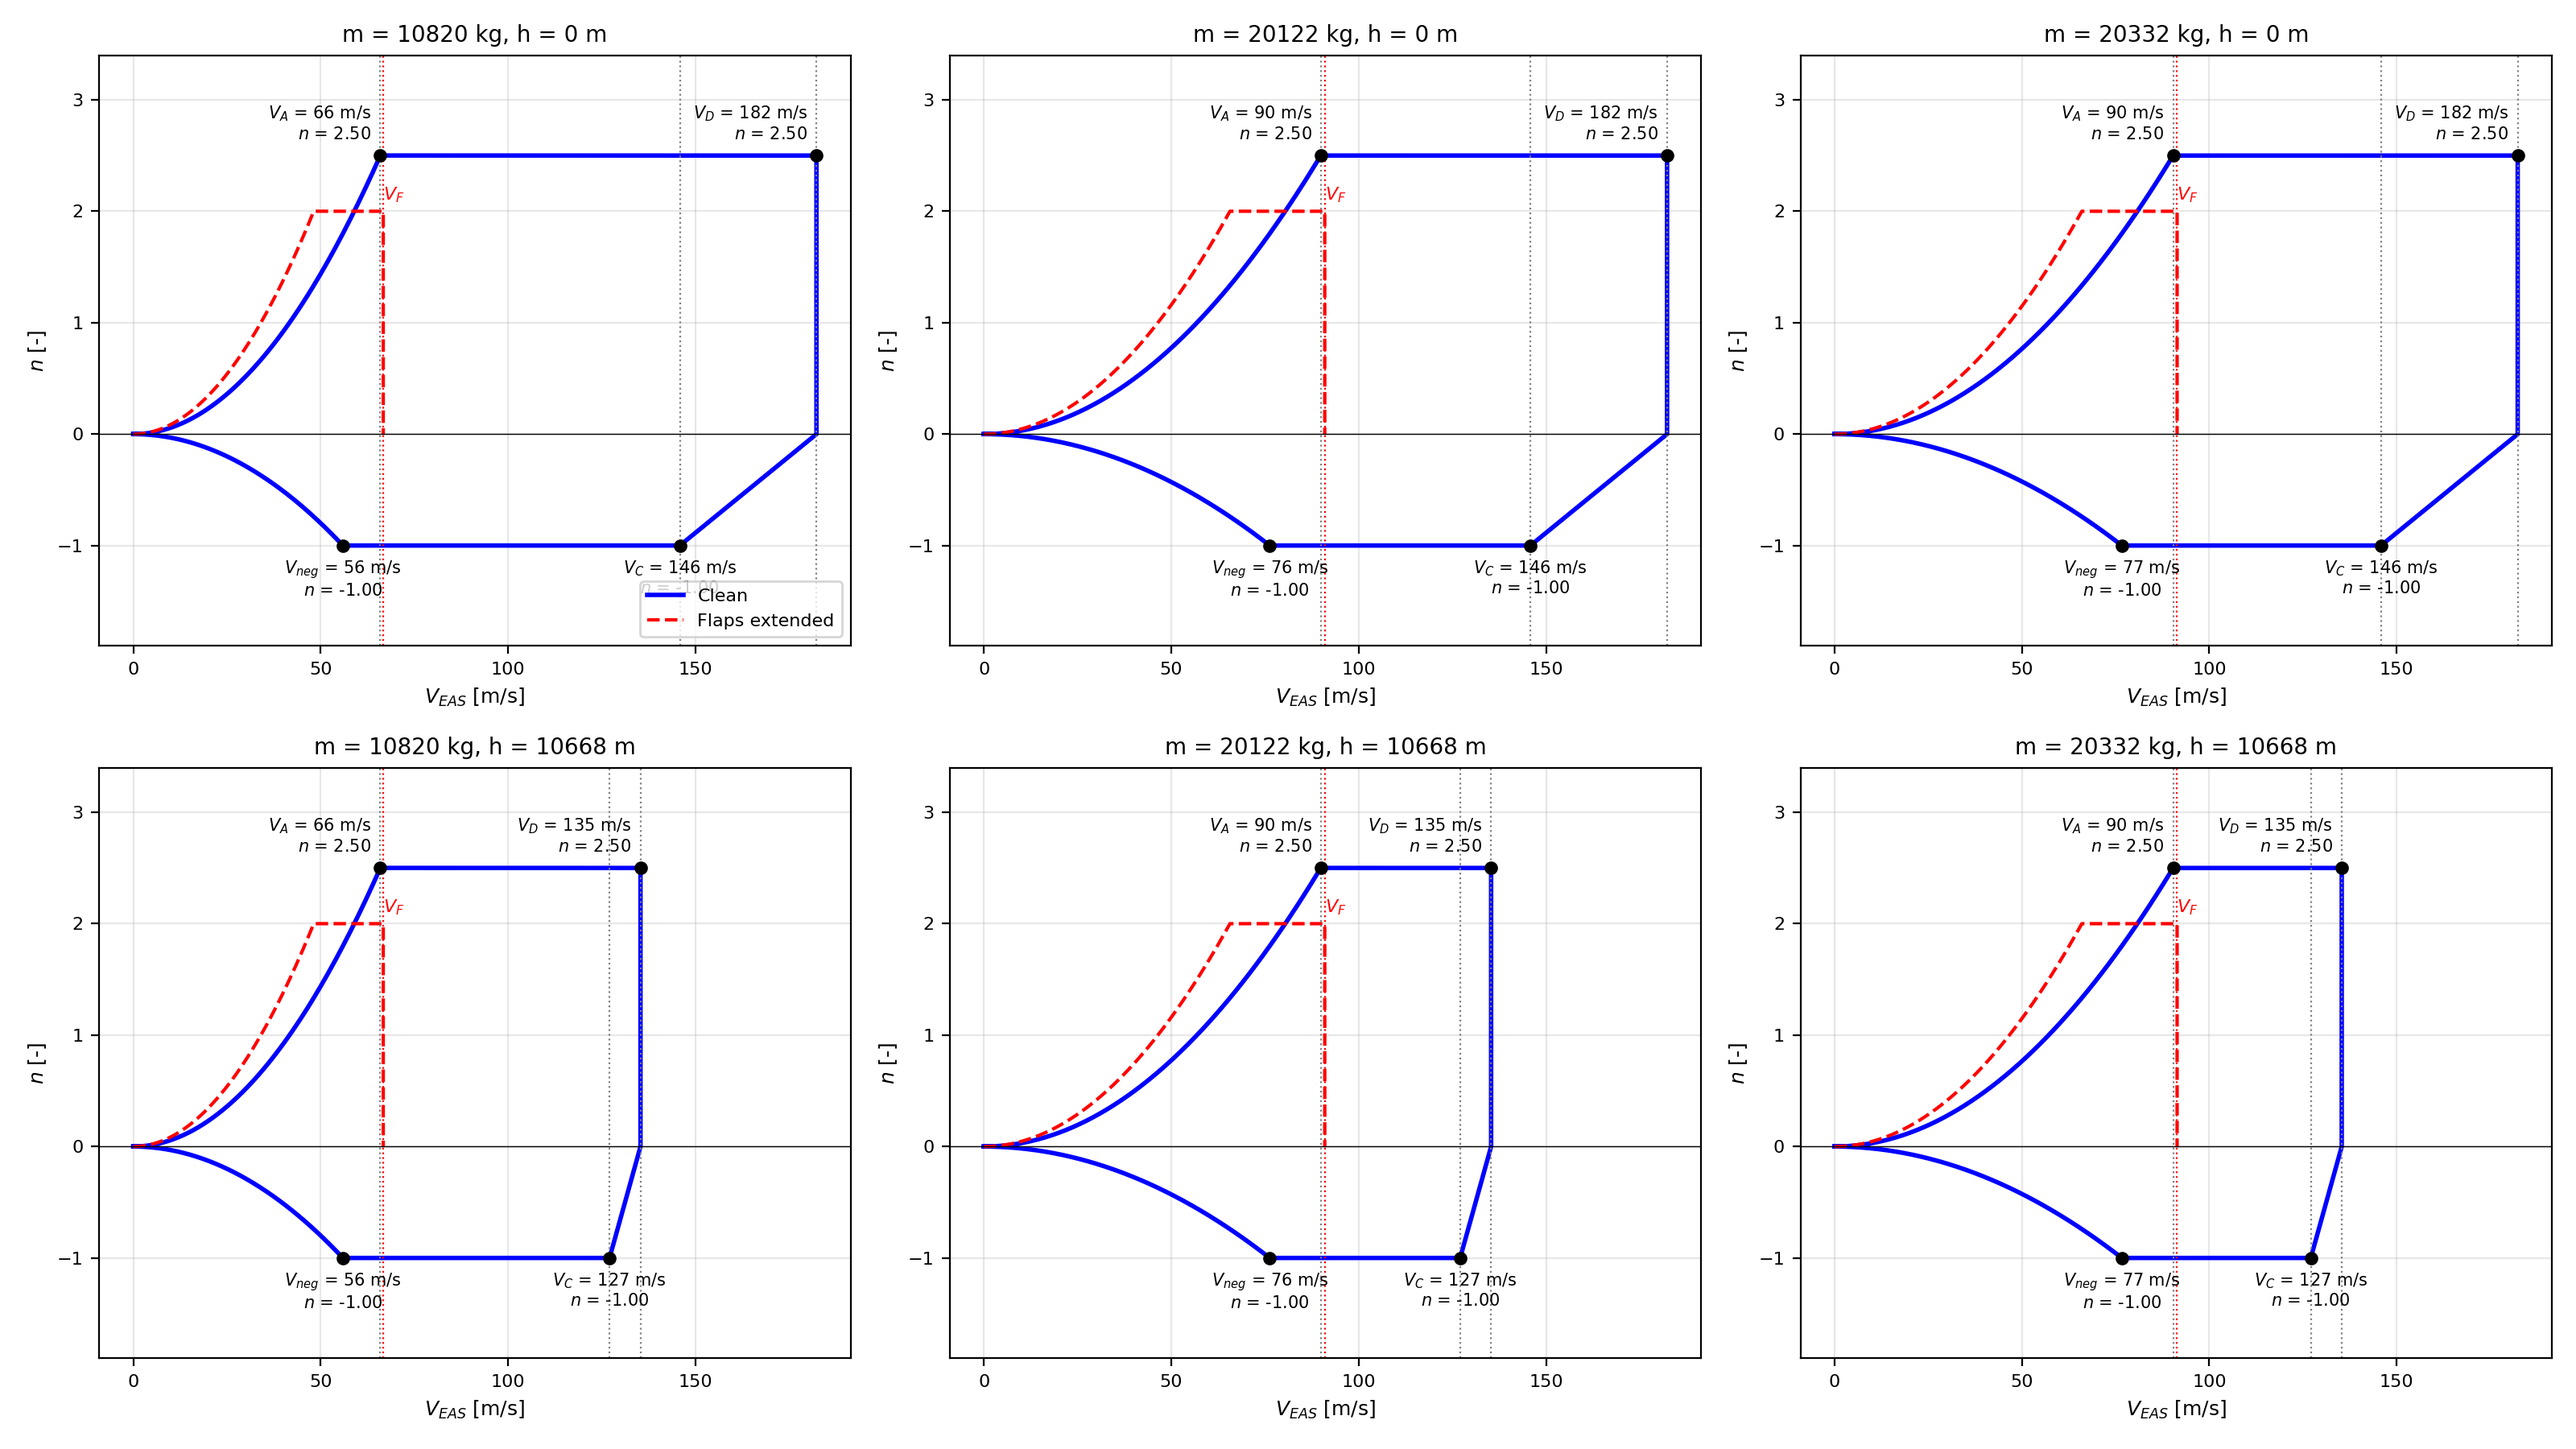
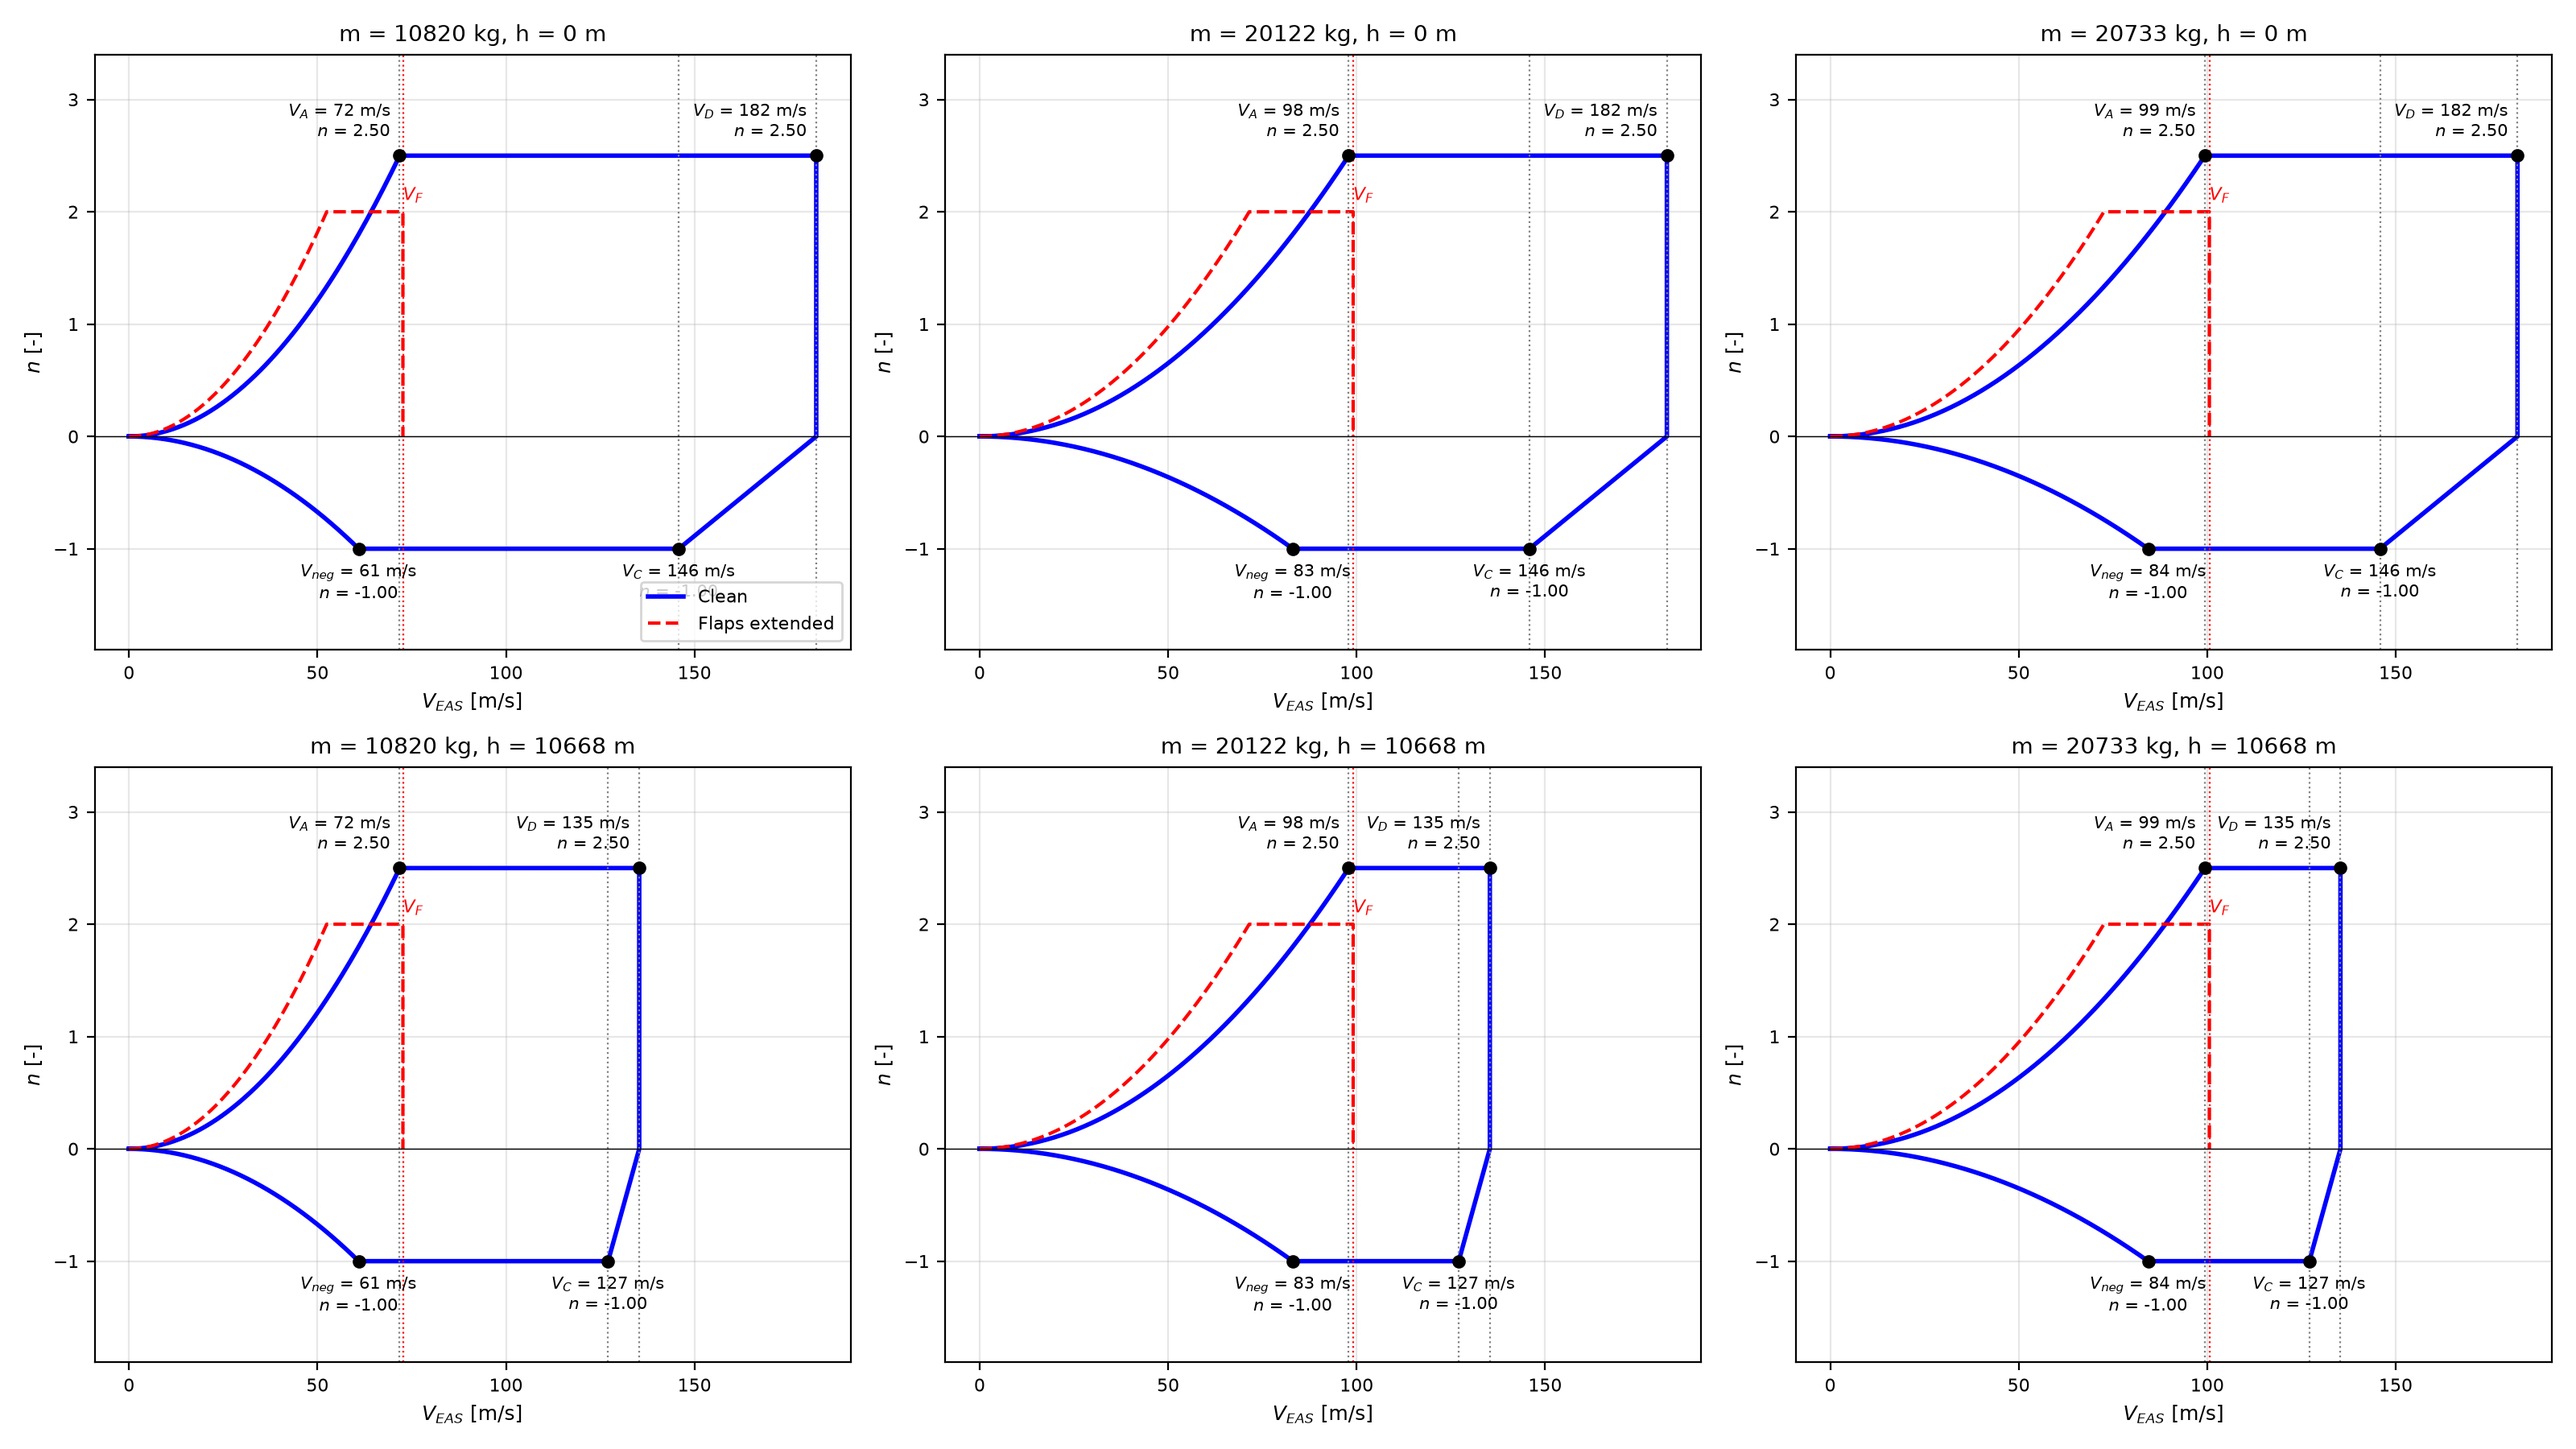
vn diagrams

diff --git a/WP4_3/V-n_diagrams.py b/WP4_3/V-n_diagrams.py
@@ -81,7 +81,7 @@ for i, H in enumerate(altitudes):
 
 
                 # ---------- V-n diagram ----------
-        k = 0.5*RHO(0)*S/(mass*gravity)                 
+        k = 0.5*rho(0)*wing_surface/(mass*gravity)                 
         V_neg = math.sqrt(abs(N_NEG)/(k*abs(CL_MAX_NEG)))
         V_Af = V_S0*math.sqrt(N_MAX_FLAPS)
 
